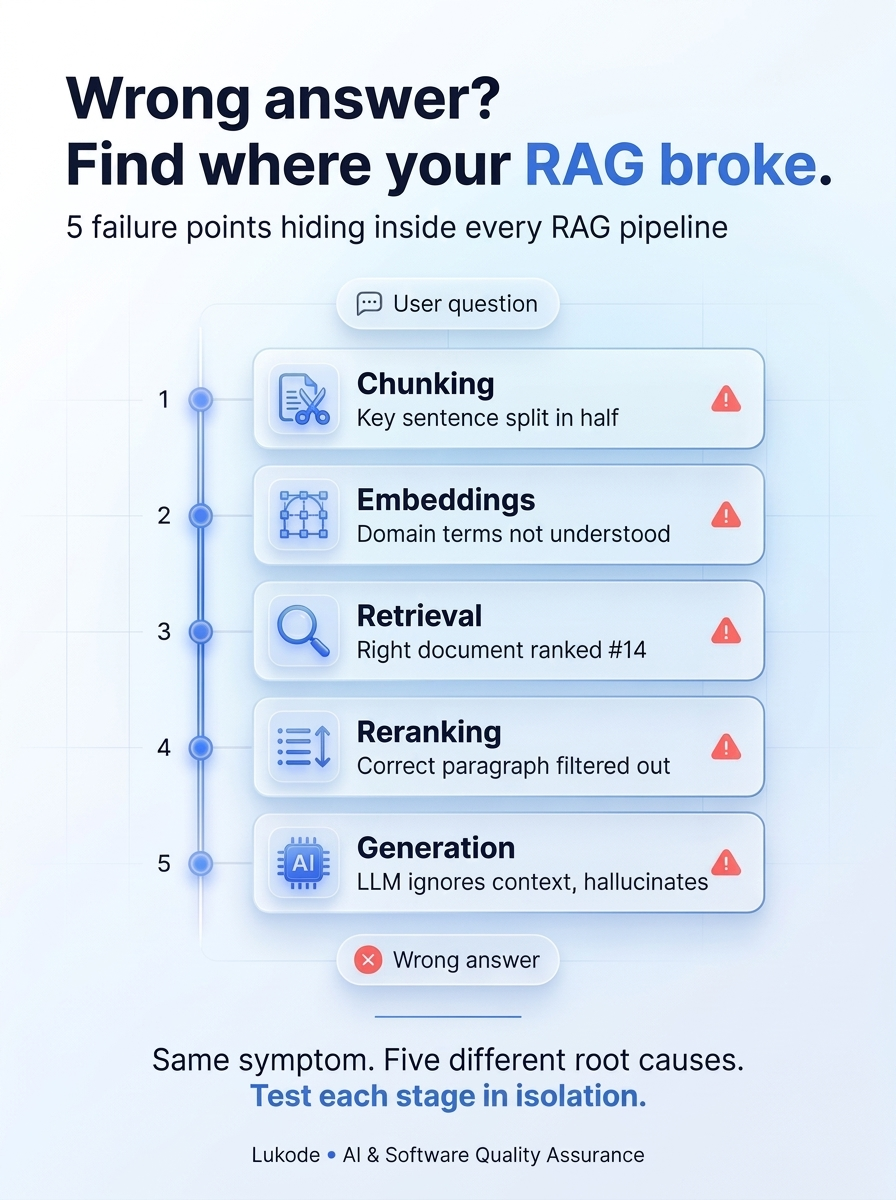
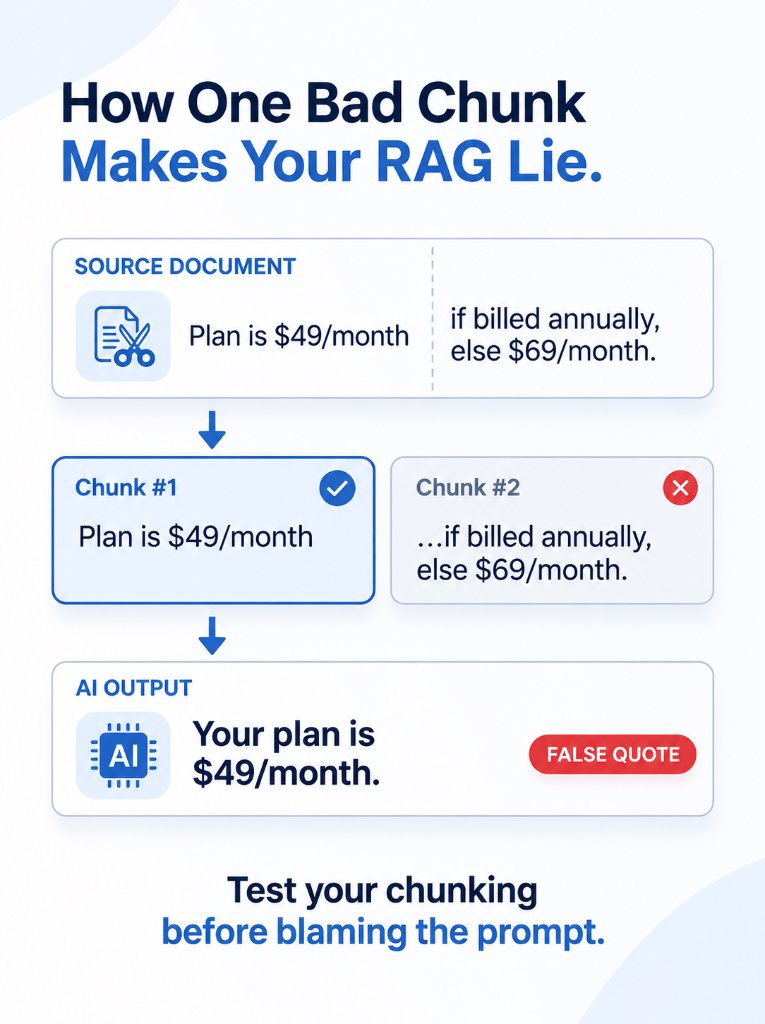
feat(social): update RAG infographic, refine content skill, and adjust category badges

diff --git a/templates/blog/blog.html b/templates/blog/blog.html
@@ -54,11 +54,16 @@
     <style>
         .category-pill-badge {
             font-size: 0.75rem;
-            padding: 0.2rem 0.6rem;
-            border-radius: 12px;
+            padding: 0.3rem 0.65rem;
+            line-height: 1.35;
+            border-radius: 8px;
             font-weight: 500;
             text-decoration: none !important;
             display: inline-block;
+            vertical-align: middle;
+            text-wrap: balance;
+            max-width: 100%;
+            transition: color 0.2s ease, background-color 0.2s ease;
         }
         .post-card-title a {
             transition: color 0.2s ease;
@@ -206,11 +211,11 @@
                                 <article class="dark-bg p-4 rounded shadow-sm h-100 d-flex flex-column justify-content-between border border-secondary border-opacity-25">
                                     <div>
                                         <!-- Post Meta: Category badge & read time -->
-                                        <div class="d-flex align-items-center justify-content-between mb-3">
+                                        <div class="d-flex align-items-center justify-content-between gap-2 mb-3">
                                             <a href="{{ url_for('blog_category', category_slug=post.category_slug) }}" class="category-pill-badge {% if post.category_slug == 'ai-testing' %}badge-cat-ai{% elif post.category_slug == 'accessibility-compliance' %}badge-cat-wcag{% else %}badge-cat-qa{% endif %}">
                                                 <i class="{{ post.icon }} me-1"></i>{{ post.category_name }}
                                             </a>
-                                            <span class="text-muted small"><i class="far fa-clock me-1"></i>{{ post.read_time }}</span>
+                                            <span class="text-muted small text-nowrap flex-shrink-0"><i class="far fa-clock me-1"></i>{{ post.read_time }}</span>
                                         </div>
 
                                         <!-- Post Title -->
@@ -273,5 +278,36 @@
 
     <!-- Bootstrap JS -->
     <script src="https://cdn.jsdelivr.net/npm/bootstrap@5.3.0/dist/js/bootstrap.bundle.min.js"></script>
+    <script>
+        function adjustCategoryBadges() {
+            document.querySelectorAll('.category-pill-badge').forEach(function(badge) {
+                badge.style.width = 'auto';
+                const range = document.createRange();
+                range.selectNodeContents(badge);
+                const rects = range.getClientRects();
+                if (rects.length > 1) {
+                    let maxLineWidth = 0;
+                    for (let i = 0; i < rects.length; i++) {
+                        if (rects[i].width > maxLineWidth) {
+                            maxLineWidth = rects[i].width;
+                        }
+                    }
+                    const style = window.getComputedStyle(badge);
+                    const padLeft = parseFloat(style.paddingLeft) || 0;
+                    const padRight = parseFloat(style.paddingRight) || 0;
+                    const borderLeft = parseFloat(style.borderLeftWidth) || 0;
+                    const borderRight = parseFloat(style.borderRightWidth) || 0;
+                    badge.style.width = Math.ceil(maxLineWidth + padLeft + padRight + borderLeft + borderRight) + 'px';
+                } else {
+                    badge.style.width = 'auto';
+                }
+            });
+        }
+        window.addEventListener('DOMContentLoaded', adjustCategoryBadges);
+        window.addEventListener('resize', adjustCategoryBadges);
+        if (document.fonts && document.fonts.ready) {
+            document.fonts.ready.then(adjustCategoryBadges);
+        }
+    </script>
 </body>
 </html>

diff --git a/.agents/skills/linkedin-content/SKILL.md b/.agents/skills/linkedin-content/SKILL.md
@@ -23,13 +23,19 @@ description: Create LinkedIn posts and matching infographics for Lukode based on
 Stay strictly within the section the user points to; keep it short.
 
 ## 3. Infographic brand style (keep broadly intact)
-- Background: smooth white → pale icy-blue gradient, optional very faint grid.
+- Background: smooth white (#FFFFFF) with subtle, organic pale-blue (#EFF6FF / #DBEAFE)
+  corner gradients. Avoid technical grid lines (they add visual noise).
 - Type: modern geometric sans (Inter/Poppins); bold dark navy (#0F172A) headline,
-  key words in royal blue (#3B82F6); gray subtitle.
-- Frosted-glass (glassmorphism) cards, soft shadows, glowing blue light lines.
-- Icons: **illustrative duotone glowing royal-blue** icons in rounded-square tiles
-  (not thin line icons).
-- Footer: "Lukode • AI & Software Quality Assurance" (blue bullet).
+  key words in royal blue (#3B82F6). Omit subtitles to preserve vertical breathing room.
+- Cards: Clean flat or subtle-elevation cards with crisp 1px borders and soft,
+  natural drop shadows (avoid heavy blurry glassmorphism or fuzzy neon halos).
+- Connectors & Dividers: Clean solid royal-blue vector arrows (↓). Dashed/cut lines
+  must be pure neutral light gray (#94A3B8) with no color tints or glow spots.
+- Badges: Solid filled circular badges (royal blue circle with white ✓, coral red
+  circle with white ✕), and solid pill badges (e.g. coral red #EF4444 for failures).
+- Icons: Illustrative duotone royal-blue icons in clean rounded-square tiles.
+- Footer: Omit the company footer when a bottom takeaway punchline is present,
+  to keep the bottom airy and uncluttered.
 - Accent colors (e.g. coral red #EF4444 for failures) only sparingly, one consistent
   placement — never duplicated on icons.
 
@@ -38,6 +44,12 @@ Stay strictly within the section the user points to; keep it short.
   - Process/pipeline/failure topics → vertical flow from input pill to output pill
     (e.g. "User question" → 5 stages → "Wrong answer").
   - Lists of pillars/metrics → isometric glass tiles are fine.
+- **Strict Information Density Rule (Simplicity & Catchiness)**:
+  - Maximum 3–5 pieces of information / stages on the graphic.
+  - The graphic is a scroll-stopper that illustrates ONE core tension or contrast;
+    all longer explanations, bullet points, and nuance belong in the post description.
+  - Preserve single-line integrity for key phrases (e.g. "Plan is $49/month").
+  - Spell out full units (use "/month", avoid abbreviations like "/mo").
 - Headline speaks to the reader's pain; closing line repeats the post's core message.
 - Default to portrait **3:4** (better feed real estate than 1:1).
 
